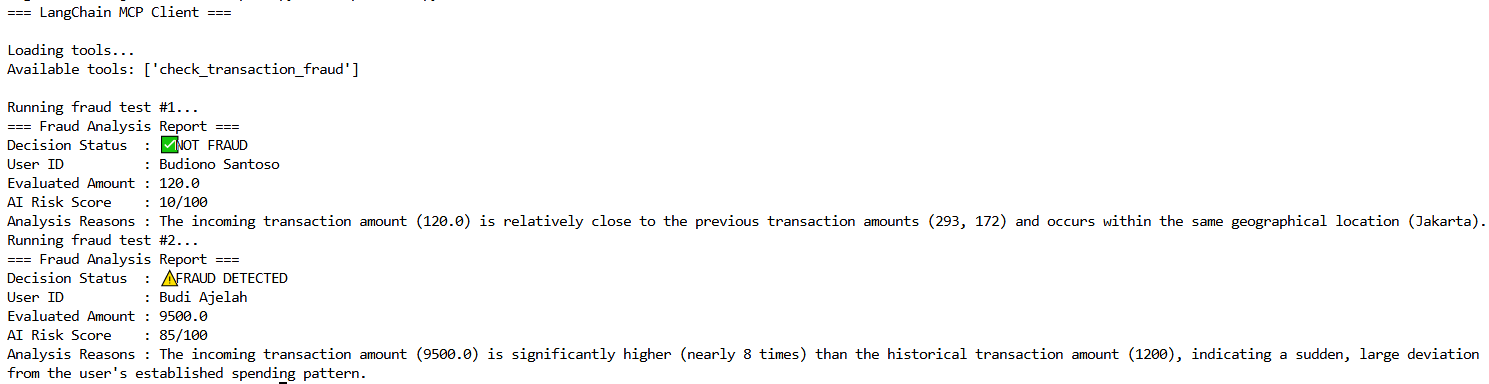
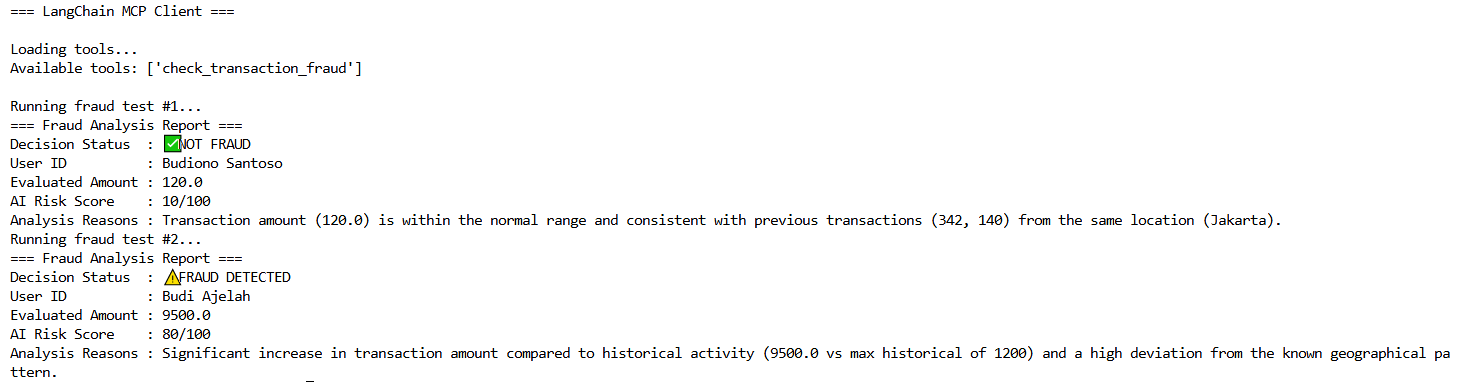
Update major instruction

Changed region(s): [[0.0, 0.2592, 1.0, 1.0], [0.0, 0.1152, 0.2459, 0.2016], [0.0, 0.0, 0.1537, 0.0576]]

diff --git a/mcp-client/mcp-with-langchain.py b/mcp-client/mcp-with-langchain.py
@@ -1,7 +1,8 @@
+import os
 import asyncio
 from langchain_mcp_adapters.client import MultiServerMCPClient
 
-ALB_URL = "http://ALB_DNS_name/mcp"
+ALB_URL = os.getenv("ALB_URL")
 
 
 async def main():
@@ -11,7 +12,7 @@ async def main():
         {
             "fraud": {
                 "transport": "http",
-                "url": ALB_URL,
+                "url": f"http://{ALB_URL}/mcp",
             }
         }
     )

diff --git a/mcp-client/mcp-without-langchain.py b/mcp-client/mcp-without-langchain.py
@@ -1,7 +1,9 @@
+import os
 import asyncio
 from fastmcp import Client
 
-client = Client("http://ALB_DNS_name/mcp")
+ALB_URL = os.getenv("ALB_URL")
+client = Client(f"http://{ALB_URL}/mcp")
 
 
 async def main():

diff --git a/INSTRUCTION.md b/INSTRUCTION.md
@@ -1,23 +1,21 @@
 ## MCP Server Part 1 : SageMaker Studio, vLLM, Gemma 4 and Terraform for Fraud Detection
 
-1. Make sure already following instruction from [this link](https://dev.to/budionosan/mcp-server-part-1-sagemaker-studio-vllm-gemma-4-and-terraform-for-fraud-detection-3k3e) from step 1 until step 5.
+1. Make sure already followed the instructions at [this link](https://dev.to/budionosan/mcp-server-part-1-sagemaker-studio-vllm-gemma-4-and-terraform-for-fraud-detection-3k3e) from step 1 until step 6 about installing Terraform and kubectl.
 
-2. Install Terraform and kubectl following instruction number 6.
-
-3. Clone this repository in the JupyterLab instance terminal and all files are now available.
-
-```bash
+2. Clone this repository in the JupyterLab instance terminal and all files are now available.
+```
 git clone https://github.com/budionosanai/google-gemma-eks-vllm-dynamodb-fastmcp-fraud-detection.git
+cd google-gemma-eks-vllm-dynamodb-fastmcp-fraud-detection
 ```
 
-4. Write and run this shell script in **scripts** folder for pull and push vLLM image to Amazon ECR private repository.
+3. Run this shell script in the **scripts** folder to pull and push the vLLM image to ECR private repository.
 ```
 cd scripts
 chmod +x vllm-to-ecr.sh
 ./vllm-to-ecr.sh
 ```
 
-5. Write and run this shell script in **mcp-server** folder for build and push MCP server folder to Amazon ECR private repository.
+4. Run this script in the **mcp-server** folder to build and push the MCP server image to the ECR private repository.
 ```
 cd ..
 
@@ -34,7 +32,7 @@ pip install sagemaker-studio-image-build
 sm-docker build . --repository mcp-server-gemma-4:latest
 ```
 
-6. Write and run this Terraform script in **terraform** folder for create EKS cluster, DynamoDB table and VPC networking.
+5. Run this Terraform command in the **terraform** folder to create EKS cluster, DynamoDB table and VPC networking.
 ```
 cd ..
 
@@ -47,7 +45,7 @@ terraform plan
 terraform apply --auto-approve
 ```
 
-7. Generate data and upload data to DynamoDB "Transactions" table with write this shell script.
+6. Run this script in the **scripts** folder to generate data and upload it to the "Transactions" DynamoDB table.
 ```
 cd ..
 
@@ -60,7 +58,7 @@ python generate-data.py
 
 ## MCP Server Part 2 : SageMaker Studio, Kubernetes manifest, Load Balancer and MCP Client for Fraud Detection
 
-1. Update EKS Auto Mode cluster by run this shell script.
+1. Run this script in the **manifests** folder to update the EKS Auto Mode cluster.
 ```
 cd ..
 
@@ -72,37 +70,37 @@ export AWS_ACCOUNT_ID=$(aws sts get-caller-identity \
 
 aws eks update-kubeconfig --region us-west-2 --name vllm-mcp-server
 
-aws iam list-roles \
-  --query "Roles[?contains(RoleName, 'SageMaker')].[RoleName,Arn]" \
-  --output table
+export ROLE_NAME=$(aws iam list-roles \
+  --query "Roles[?contains(RoleName, 'SageMaker-ExecutionRole')].RoleName" \
+  --output text)
 
 aws eks create-access-entry \
   --cluster-name vllm-mcp-server \
-  --principal-arn arn:aws:iam::${AWS_ACCOUNT_ID}:role/service-role/AmazonSageMaker-ExecutionRole-xxxxx \
+  --principal-arn arn:aws:iam::${AWS_ACCOUNT_ID}:role/service-role/${ROLE_NAME} \
   --type STANDARD \
   --region us-west-2
 
 aws eks associate-access-policy \
   --cluster-name vllm-mcp-server \
-  --principal-arn arn:aws:iam::${AWS_ACCOUNT_ID}:role/service-role/AmazonSageMaker-ExecutionRole-xxxxx \
+  --principal-arn arn:aws:iam::${AWS_ACCOUNT_ID}:role/service-role/${ROLE_NAME} \
   --policy-arn arn:aws:eks::aws:cluster-access-policy/AmazonEKSClusterAdminPolicy \
   --access-scope type=cluster \
   --region us-west-2
 ```
 
-2. Run this Kubernetes manifest of this vLLM service.
+2. Apply this Kubernetes manifest in the **manifests/vllm** folder to deploy the vLLM service.
 ```
 cd vllm
 kubectl apply -f ebs.yaml
 kubectl apply -f pvc.yaml
 kubectl apply -f nodepool.yaml
-kubectl apply -f envsubst < deployment.yaml | kubectl apply -f -
+envsubst < deployment.yaml | kubectl apply -f -
 kubectl apply -f service.yaml
 ```
 
 ![vLLM manifest](./images/vllm-manifest.PNG)
 
-3. Create and configure an EKS Pod Identity for access to Amazon DynamoDB.
+3. Run this script in the **manifests/mcp-server** folder to create and configure EKS Pod Identity for access to Amazon DynamoDB.
 ```
 cd ..
 
@@ -162,7 +160,7 @@ aws eks create-pod-identity-association \
     --role-arn arn:aws:iam::${AWS_ACCOUNT_ID}:role/MCPServerPodRole
 ```
 
-4. Run this Kubernetes manifest of this MCP server ingress/load balancer.
+4. Apply this Kubernetes manifest in the **manifests/mcp-server** folder to deploy the MCP server ingress/load balancer.
 ```
 kubectl apply -f serviceaccount.yaml
 envsubst < deployment.yaml | kubectl apply -f -
@@ -174,44 +172,28 @@ kubectl apply -f ingress.yaml
 
 ![MCP server manifest](./images/mcp-server-manifest.PNG)
 
-5. Go to EC2 -> Load Balancing -> Load Balancers -> checklist Load Balancer -> Details -> **Copy DNS name to MCP client code** in **mcp-client** folder.
+4A. [OPTIONAL] Navigate to Amazon EC2 -> Load Balancing -> Load Balancers to make sure ingress/load balancer is now available and wait until load balancer status change to Active.
 
 ![MCP server ALB](./images/mcp-server-alb.PNG)
 
-6. To access the MCP server, you need an MCP client using native MCP client from FastMCP or MCP client from Langchain.
+5. To access the MCP server, you need an MCP client such as the native MCP client from FastMCP or the MCP client from Langchain. Run this script in the **mcp-client** folder to run the fraud detection MCP client.
 ```
 cd ..
 
 cd ..
 
 cd mcp-client
-```
 
-7A. Open mcp-with-langchain.py file in mcp-client folder then look at this line of code.
-```
-client = Client("http://ALB_DNS_name/mcp")
-```
-
-7B. Replace ALB_DNS_name to DNS name of load balancer that already created and run the shell script below.
-```
 pip install langchain-mcp-adapters
 
-python mcp-with-langchain.py
-```
+ALB_URL=$(kubectl get ingress mcp-server-gemma -o jsonpath='{.status.loadBalancer.ingress[0].hostname}') python mcp-with-langchain.py
 
-8A. Open mcp-without-langchain.py file in mcp-client folder look at this line of code.
-```
-ALB_URL = "http://ALB_DNS_name/mcp"
-```
-
-8B. Replace ALB_DNS_name to DNS name of load balancer that already created then run MCP without Langchain client code.
-```
-python mcp-without-langchain.py
+ALB_URL=$(kubectl get ingress mcp-server-gemma -o jsonpath='{.status.loadBalancer.ingress[0].hostname}') python mcp-without-langchain.py
 ```
 
 ![MCP client result](./images/mcp-client-result.PNG)
 
-9. Write and run this Terraform script in **terraform** folder for delete all AWS services such as EKS, VPC, DynamoDB and other services.
+6. Run this Terraform command in the **terraform** folder to delete all AWS services such as EKS, VPC, DynamoDB and other services.
 ```
 cd ..
 
@@ -220,4 +202,25 @@ cd terraform
 terraform destroy --auto-approve
 ```
 
-10. In SageMaker Studio JupyterLab, click "Stop space" and [delete your SageMaker Studio domain.](https://docs.aws.amazon.com/sagemaker/latest/dg/gs-studio-delete-domain.html#gs-studio-delete-domain-studio)
+7. Run this script to delete the vLLM image and fraud detection MCP server image in the ECR private repositories.
+```
+aws ecr delete-repository --repository-name mcp-server-gemma-4 --force --region us-west-2
+
+aws ecr delete-repository --repository-name vllm-gemma-4-eks --force --region us-west-2
+```
+
+8. Run this script to delete the IAM role and IAM policy.
+```
+export POLICY_ARN=$(aws iam list-policies \
+    --scope Local \
+    --query 'Policies[?PolicyName==`DynamoDBMCPPolicy`].Arn' \
+    --output text)
+
+aws iam detach-role-policy --role-name MCPServerPodRole --policy-arn "$POLICY_ARN"
+
+aws iam delete-policy --policy-arn "$POLICY_ARN"
+
+aws iam delete-role --role-name MCPServerPodRole
+```
+
+9. In SageMaker Studio JupyterLab, click **Stop space** and [delete your SageMaker Studio domain.](https://docs.aws.amazon.com/sagemaker/latest/dg/gs-studio-delete-domain.html#gs-studio-delete-domain-studio)
